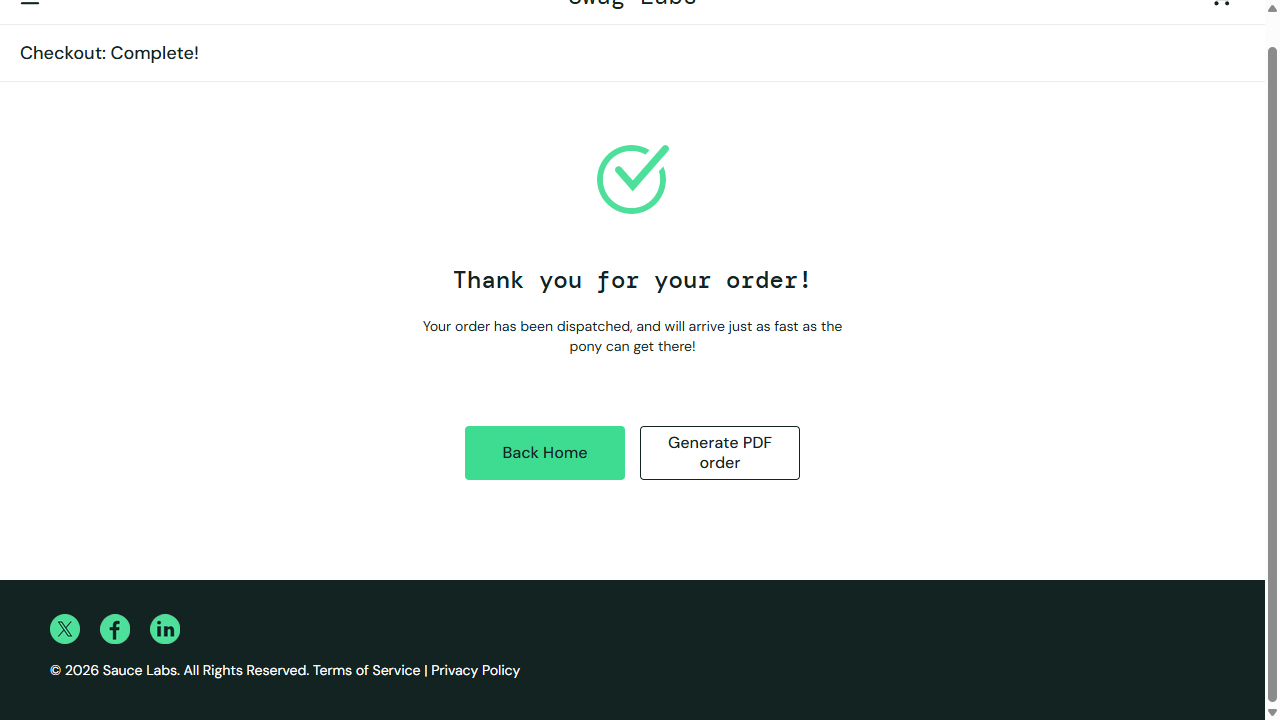
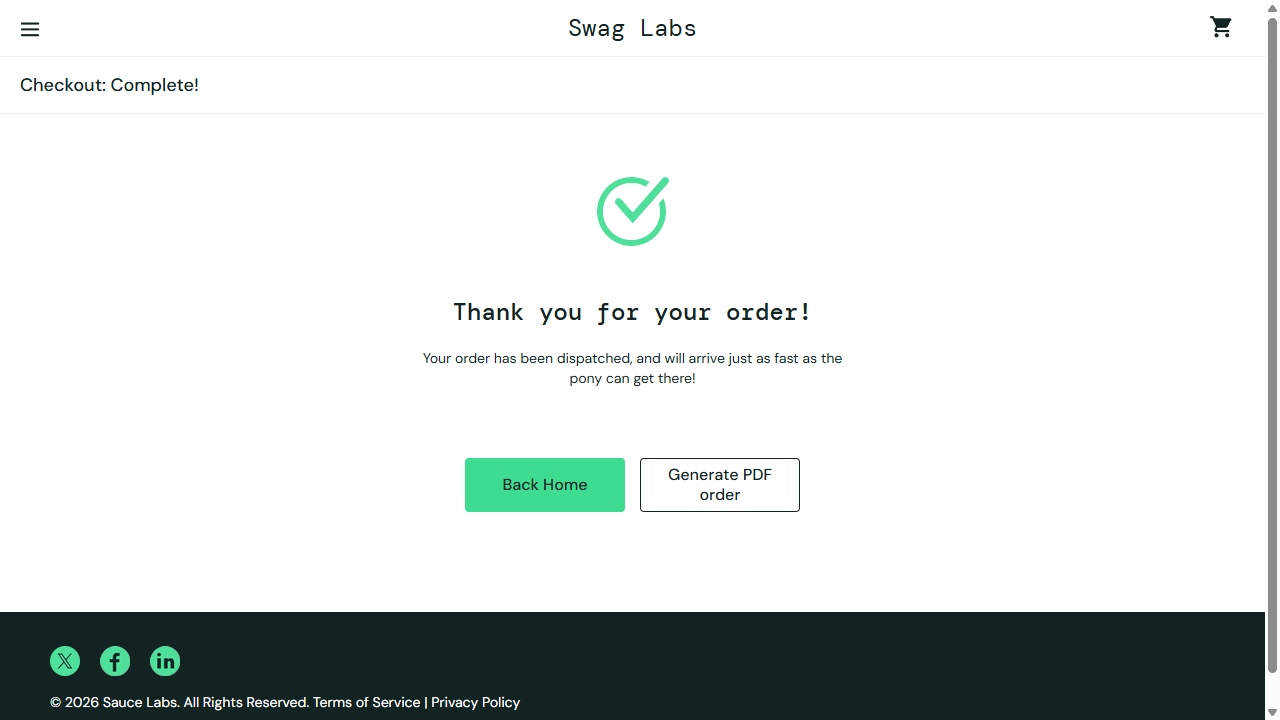
Make visual checks deterministic: scroll to top before every screenshot
The app is a single-page app, so the scroll position survives navigation and
depended on how far each tool scrolled to click the previous button. The
order-confirmation baseline was captured 32px scrolled, so the same page
differed by 7% from run to run. Both tools now scroll to the top first, and
Cypress also waits for fonts. Cypress diffs and captures are published next
to the native reports. Win32 baselines regenerated; the stale Linux ones are
removed so CI recreates them on the next run.

diff --git a/playwright/tests/visual.spec.ts b/playwright/tests/visual.spec.ts
@@ -10,18 +10,24 @@ async function login(page: Page, user: { username: string; password: string }) {
   await page.locator('[data-test="login-button"]').click();
 }
 
+// The app is a single-page app, so the scroll position survives navigation and depends on how far
+// Playwright scrolled to click the previous button. Fix it, or the same page screenshots differently.
+const settle = (page: Page) => page.evaluate(() => window.scrollTo(0, 0));
+
 test.describe('Visual', () => {
   test.use({ viewport: VISUAL.viewport });
 
   test('[VIS-01] inventory page matches the baseline', async ({ page }) => {
     await login(page, USERS.standard);
     await expect(page.locator('.inventory_item')).toHaveCount(6);
+    await settle(page);
     await expect(page).toHaveScreenshot(`${VISUAL.snapshots['VIS-01']}.png`, shot);
   });
 
   test('[VIS-02] login error state matches the baseline', async ({ page }) => {
     await login(page, USERS.locked);
     await expect(page.locator('[data-test="error"]')).toBeVisible();
+    await settle(page);
     await expect(page).toHaveScreenshot(`${VISUAL.snapshots['VIS-02']}.png`, shot);
   });
 
@@ -36,6 +42,7 @@ test.describe('Visual', () => {
     await page.locator('[data-test="continue"]').click();
     await page.locator('[data-test="finish"]').click();
     await expect(page.locator('[data-test="complete-header"]')).toBeVisible();
+    await settle(page);
     await expect(page).toHaveScreenshot(`${VISUAL.snapshots['VIS-03']}.png`, shot);
   });
 });

diff --git a/cypress/support/commands.ts b/cypress/support/commands.ts
@@ -9,6 +9,13 @@ declare global {
 }
 
 Cypress.Commands.add('matchSnapshot', (name: string) => {
+  // Unlike Playwright's toHaveScreenshot, cy.screenshot does not wait for the page to settle. A web font
+  // or image arriving late reflows the page (the footer moves), which shows up as a large pixel diff.
+  cy.document().its('fonts.status').should('eq', 'loaded');
+  // The app is a single-page app, so the scroll position survives navigation and depends on how far Cypress
+  // scrolled to click the previous button. Fix it, or the same page screenshots differently run to run.
+  cy.scrollTo(0, 0, { ensureScrollable: false });
+  cy.window().then((win) => new Cypress.Promise((resolve) => win.requestAnimationFrame(() => resolve())));
   cy.screenshot(name, { capture: 'viewport', overwrite: true, disableTimersAndAnimations: true });
   cy.task('compareSnapshot', { name, spec: Cypress.spec.name }).then((result) => {
     const r = result as { status: string; diffRatio: number; message: string };

diff --git a/scripts/assemble-site.ts b/scripts/assemble-site.ts
@@ -3,6 +3,8 @@
  *   /                      the React report (report/dist)
  *   /native/playwright     Playwright's own HTML report
  *   /native/cypress        Cypress mochawesome HTML report
+ *   /native/cypress-diffs  pixel diffs for failed Cypress visual checks (only when there are any)
+ *   /native/cypress-screenshots  what Cypress captured
  *   /results.json          merged results
  */
 import fs from 'node:fs';
@@ -25,4 +27,6 @@ fs.rmSync(site, { recursive: true, force: true });
 copy('report/dist', '.');
 copy('reports/playwright-html', 'native/playwright');
 copy('reports/cypress-html', 'native/cypress');
+copy('reports/cypress-diffs', 'native/cypress-diffs');
+copy('reports/cypress-screenshots', 'native/cypress-screenshots');
 copy('report/src/data/results.json', 'results.json');

diff --git a/cypress/e2e/visual.cy.ts b/cypress/e2e/visual.cy.ts
@@ -10,6 +10,7 @@ const login = (user: { username: string; password: string }) => {
 // Cypress does not wait for images on its own, so a baseline could be taken half-loaded.
 const imagesLoaded = () =>
   cy.get('img').should(($imgs) => {
+    expect($imgs.length, 'page has images').to.be.greaterThan(0);
     $imgs.each((_, img) => {
       expect((img as HTMLImageElement).complete && (img as HTMLImageElement).naturalWidth > 0).to.be
         .true;
